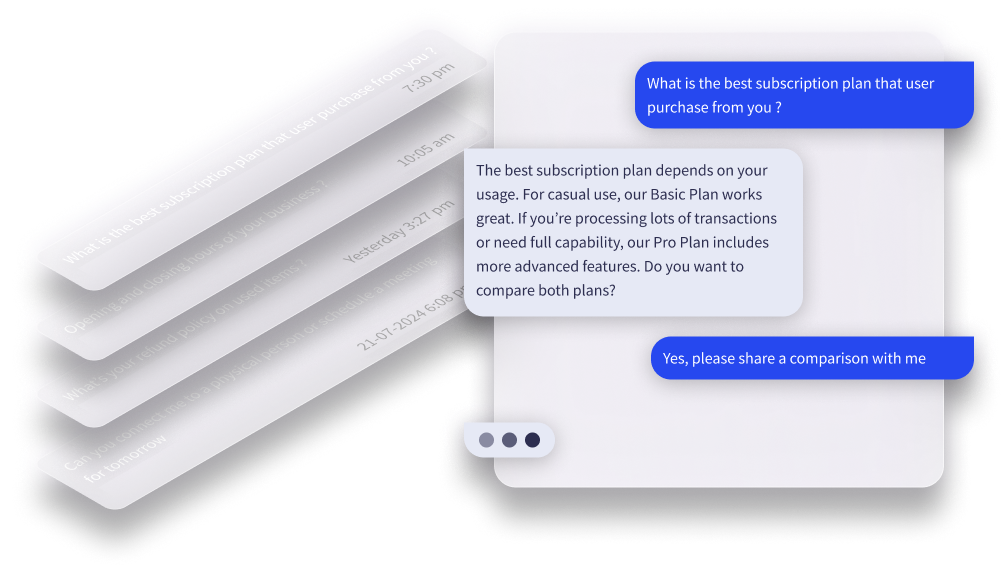
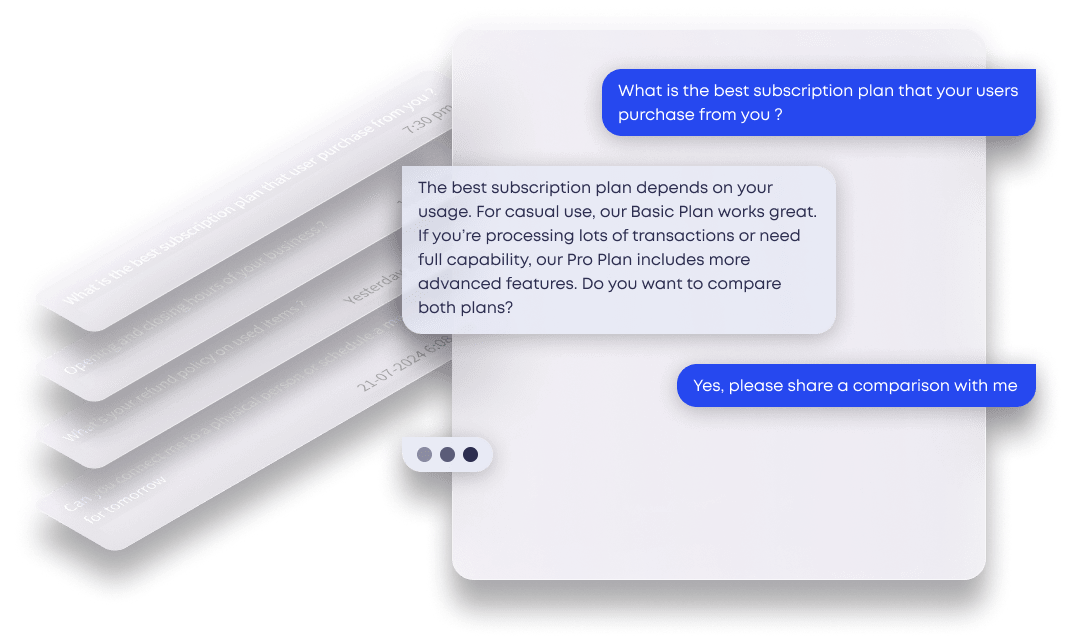
Update images

diff --git a/app/Home/Services.tsx b/app/Home/Services.tsx
@@ -84,7 +84,7 @@ const Services = () => {
                     {/* Image takes full top area */}
                     <div className="flex-grow flex justify-center p-0">
                         <img
-                            src="./KeyFeatureCards/Customizable Branding.png"
+                            src="./KeyFeatureCards/Customization.png"
                             alt="Customizable Branding Interface"
                             // Set the image width to 99.8% of the parent container
                             // and use 'mx-auto' to center it, creating 0.1% space on each side.
